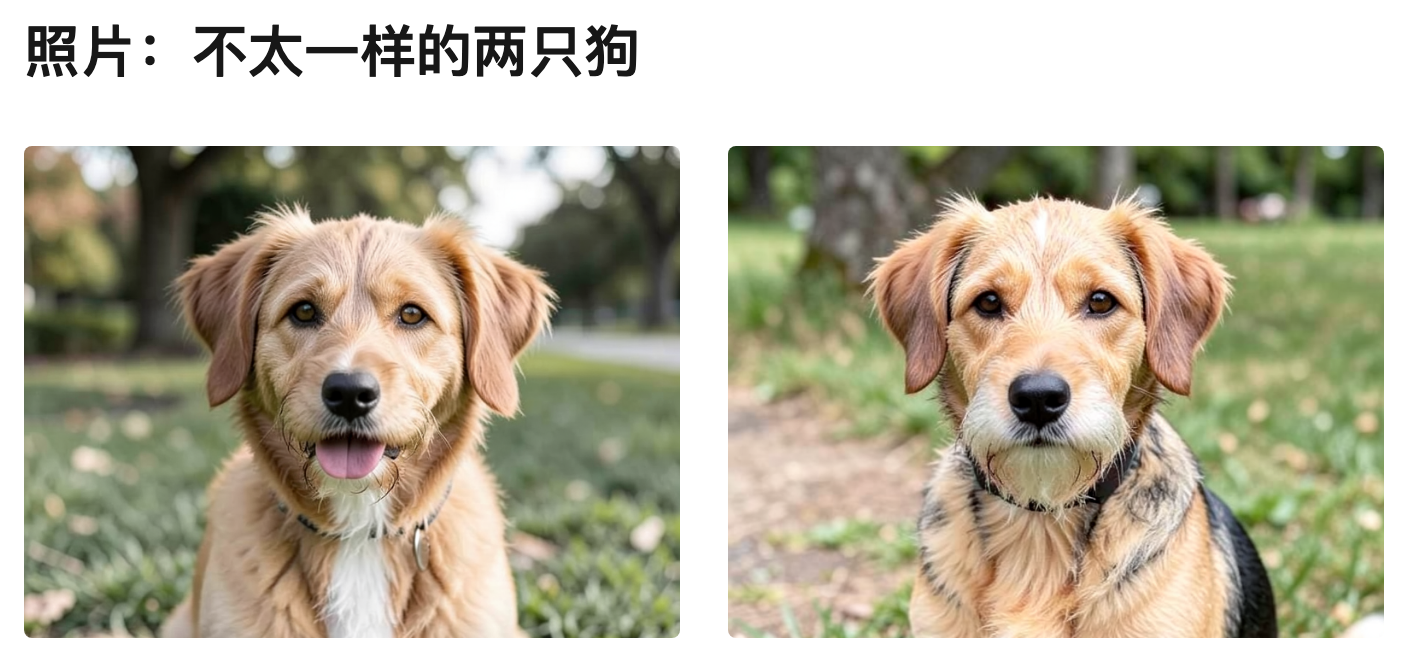
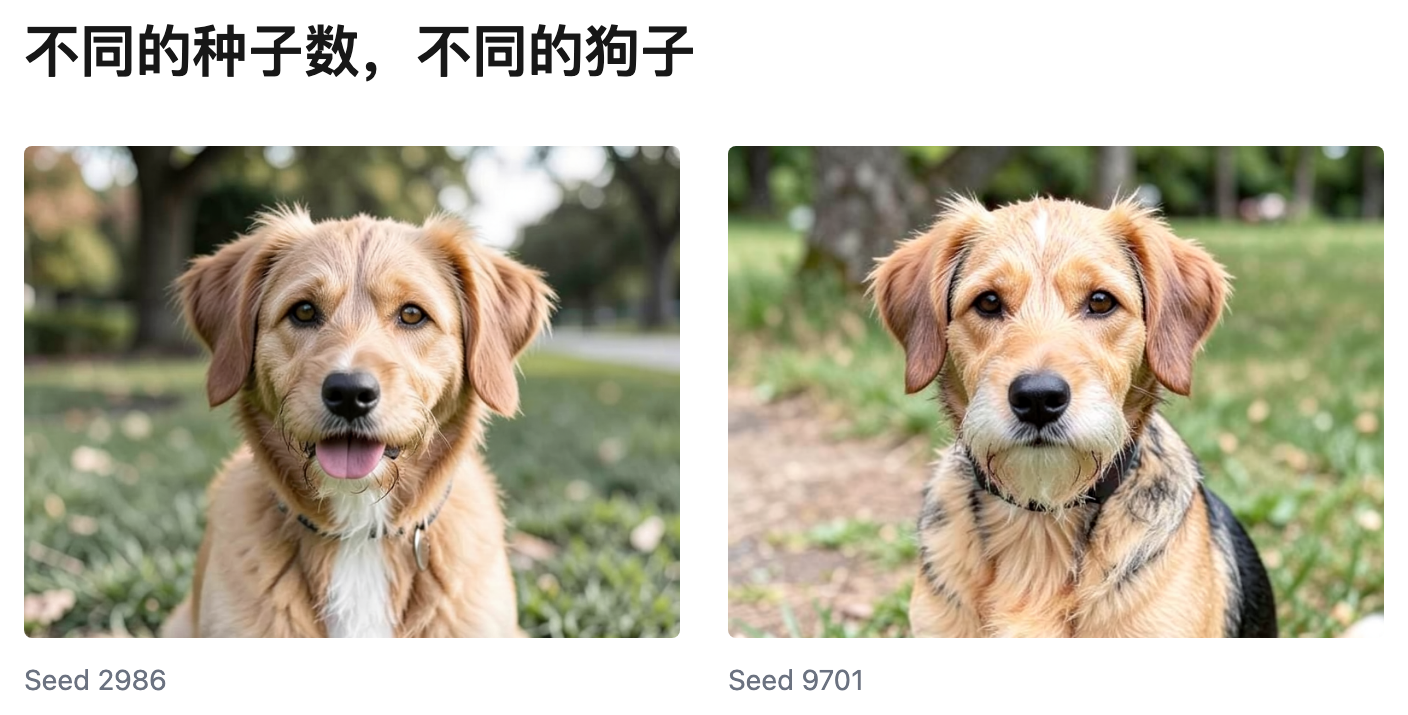
[draft] 两狗对比图更新标题并补上 seed 编号
原标题「照片：不太一样的两只狗」没说明差异的根源，改成「不同的种子数，不同的狗子」点出对比重点是同一 prompt 下种子数不同导致结果不同；同时给每张图加上 Seed 2986 / Seed 9701 的图注，让读者不看正文也能对上具体种子。

diff --git a/articles/framed-ink-variation-collapse/two-dogs-image-grid.source.html b/articles/framed-ink-variation-collapse/two-dogs-image-grid.source.html
@@ -2,7 +2,7 @@
 <html lang="zh">
 <head>
 <meta charset="utf-8">
-<title>照片：不太一样的两只狗</title>
+<title>不同的种子数，不同的狗子</title>
 <style>
   body{margin:0;font-family:-apple-system,BlinkMacSystemFont,"PingFang SC","Microsoft YaHei","Helvetica Neue",Arial,sans-serif;background:#ffffff;color:#171717;}
 </style>
@@ -12,7 +12,7 @@
 <div style="width: 1160px; box-sizing: border-box; background: #ffffff; padding: 64px; display: flex; flex-direction: column; gap: 28px;">
 
   <div style="display: flex; flex-direction: column; gap: 8px;">
-    <h2 style="margin: 0; font-size: 28px; font-weight: 800; color: #171717;">照片：不太一样的两只狗</h2>
+    <h2 style="margin: 0; font-size: 28px; font-weight: 800; color: #171717;">不同的种子数，不同的狗子</h2>
   </div>
 
   <div style="display: grid; grid-template-columns: repeat(3, minmax(0, 1fr)); gap: 24px;">
@@ -21,12 +21,14 @@
       <div style="width: 100%; aspect-ratio: 4/3; border-radius: 4px; overflow: hidden;">
         <img src="file:///Users/husongtao/Projects/newsletters/articles/framed-ink-variation-collapse/seed_2986.png" style="width: 100%; height: 100%; object-fit: cover; object-position: top; display: block;">
       </div>
+      <figcaption style="font-size: 14px; color: #6B7280; line-height: 1.6;">Seed 2986</figcaption>
     </figure>
 
     <figure style="margin: 0; display: flex; flex-direction: column; gap: 10px;">
       <div style="width: 100%; aspect-ratio: 4/3; border-radius: 4px; overflow: hidden;">
         <img src="file:///Users/husongtao/Projects/newsletters/articles/framed-ink-variation-collapse/seed_9701.png" style="width: 100%; height: 100%; object-fit: cover; object-position: top; display: block;">
       </div>
+      <figcaption style="font-size: 14px; color: #6B7280; line-height: 1.6;">Seed 9701</figcaption>
     </figure>
 
   </div>
